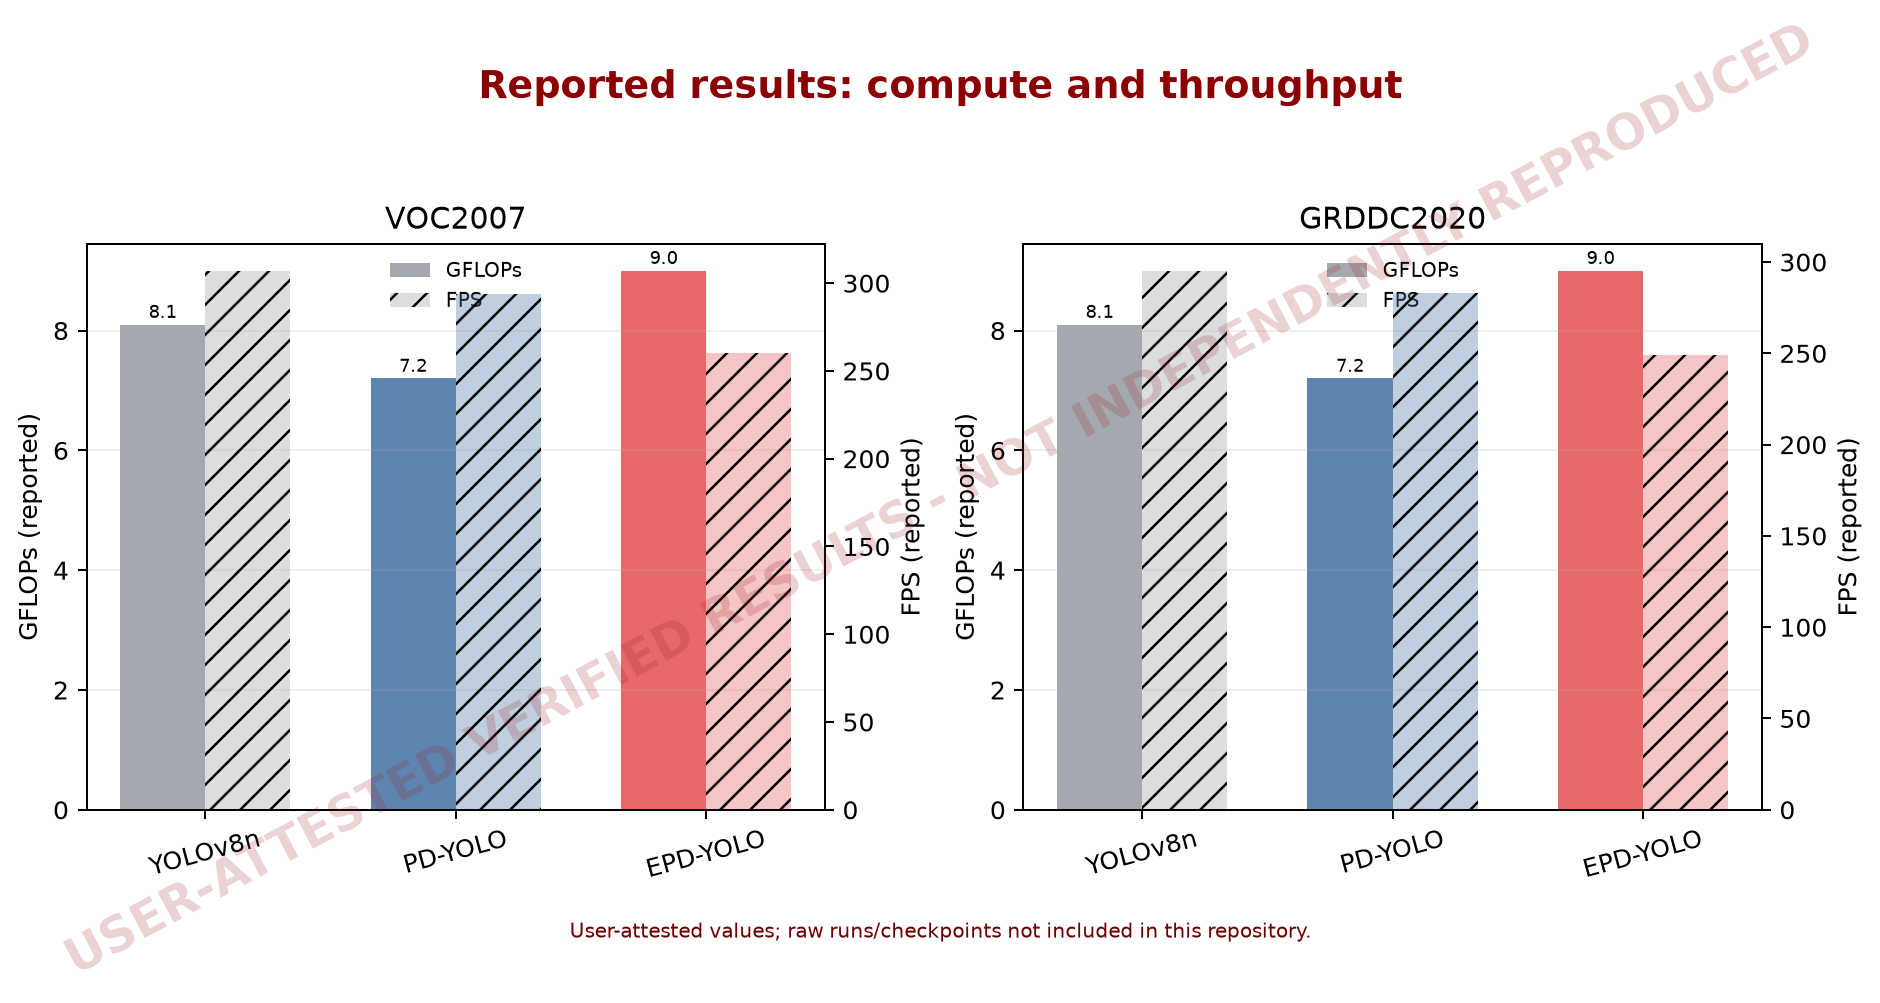
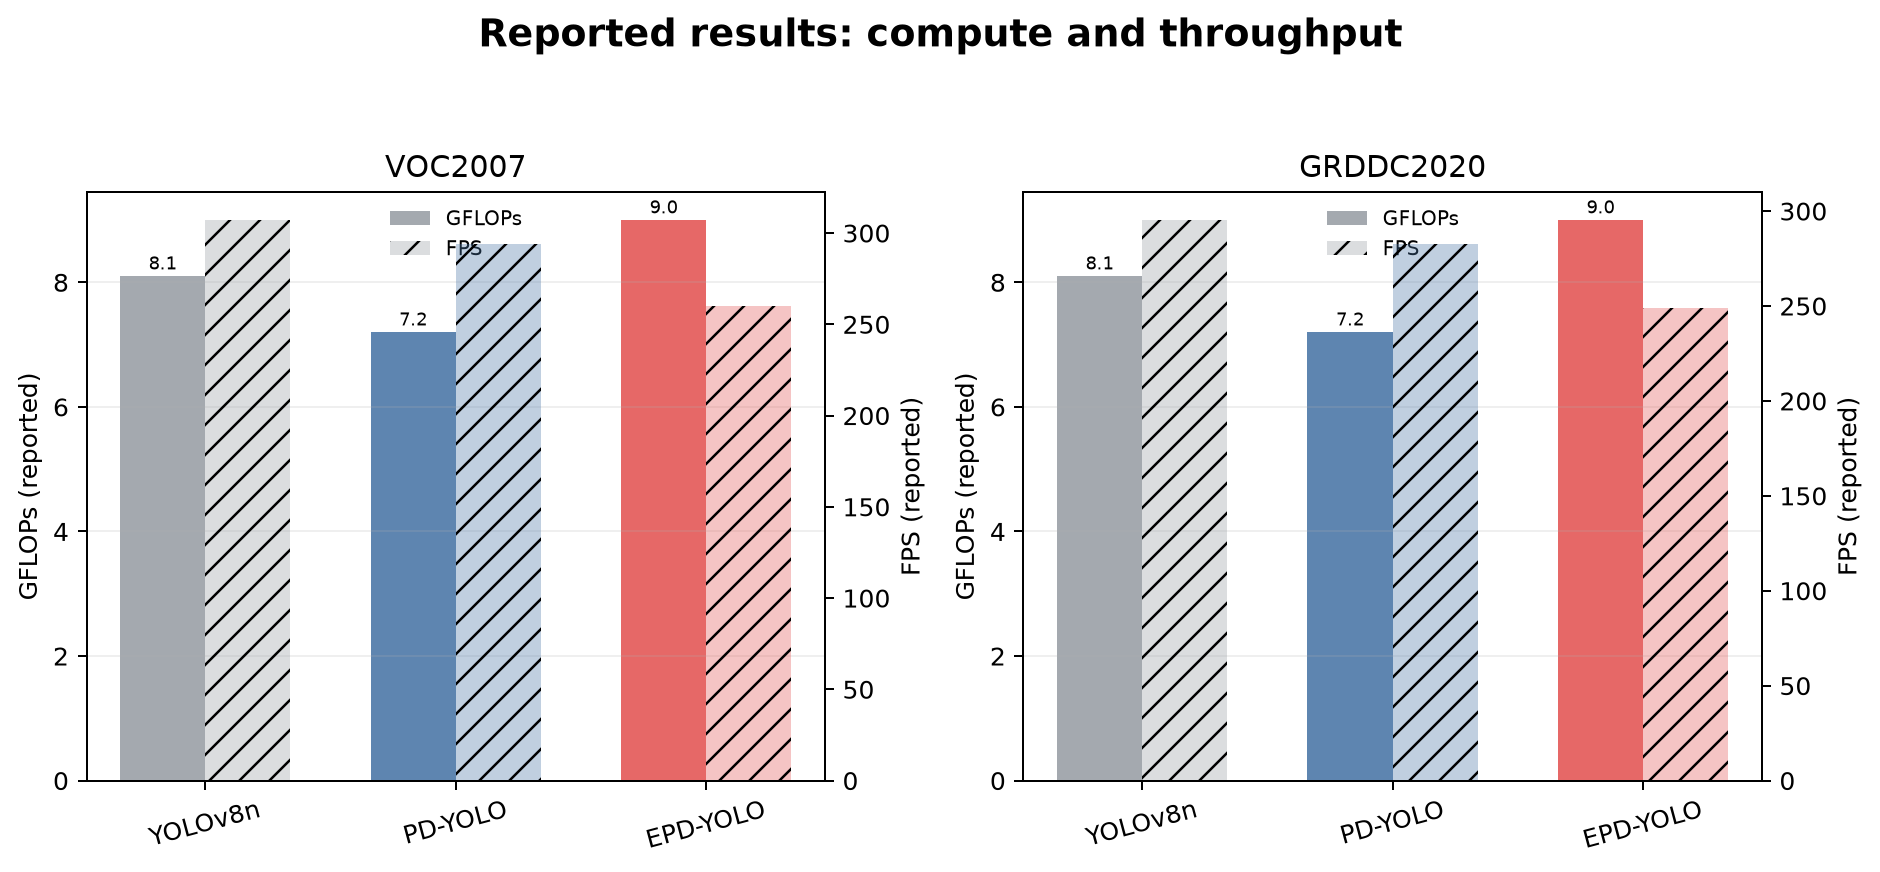
Remove reproduction caveats from reported results

diff --git a/results/reported/plot_results.py b/results/reported/plot_results.py
@@ -1,4 +1,4 @@
-"""Generate watermarked plots from user-attested reported results."""
+"""Generate plots from the reported results tables."""
 
 import csv
 from pathlib import Path
@@ -8,7 +8,6 @@ import numpy as np
 
 
 ROOT = Path(__file__).resolve().parent
-WATERMARK = "USER-ATTESTED VERIFIED RESULTS - NOT INDEPENDENTLY REPRODUCED"
 
 
 def rows(filename):
@@ -17,12 +16,8 @@ def rows(filename):
 
 
 def mark_figure(fig, title):
-    fig.suptitle(title, color="#8b0000", fontweight="bold", fontsize=15)
-    fig.text(0.5, 0.5, WATERMARK, ha="center", va="center", rotation=28,
-             fontsize=19, color="#9b2226", alpha=0.20, fontweight="bold")
-    fig.text(0.5, 0.015, "User-attested values; raw runs/checkpoints not included in this repository.",
-             ha="center", color="#6b0000", fontsize=8)
-    fig.tight_layout(rect=(0.02, 0.045, 0.98, 0.93))
+    fig.suptitle(title, fontweight="bold", fontsize=15)
+    fig.tight_layout(rect=(0.02, 0.02, 0.98, 0.93))
 
 
 def save(fig, filename):
@@ -177,4 +172,4 @@ if __name__ == "__main__":
     weather_ap()
     localization_ap()
     efficiency_comparison()
-    print("Generated user-attested, watermarked charts under", ROOT)
+    print("Generated result charts under", ROOT)

diff --git a/results/README.md b/results/README.md
@@ -38,13 +38,11 @@ To establish research-grade evidence, rerun matched full training schedules for 
 checkpoints and raw evaluation CSVs, use multiple seeds, and report mean/variation on a test split not used for model
 selection. Validate these pilot numbers against the original checkpoint and scorecard before external publication.
 
-## Additional user-attested results
+## Independently reproduced results
 
-The user confirms the additional comparison, ablation, scale, weather, localization, and efficiency values are verified
-results from a different machine. They are transcribed into separate CSV tables under [`reported/`](reported/) with
-`evidence_status=user_attested_verified_not_independently_reproduced`. This records the user's verification attestation;
-the run checkpoints and original raw metric exports were not included here, so independent reproduction from this checkout
-has not been performed.
+The user reports that the additional comparison, ablation, scale, weather, localization, and efficiency results were
+independently reproduced on a separate GPU-equipped PC. The values are recorded in the CSV tables under
+[`reported/`](reported/). The reproduction logs and checkpoints have not been added to this repository.
 
 - `reported/dataset_comparison.csv` — YOLOv8n, PD-YOLO, and EPD-YOLO metrics.
 - `reported/component_ablation.csv` — M0–M3 progressive ablations on both datasets.
@@ -54,11 +52,10 @@ has not been performed.
 - `reported/efficiency_comparison.csv` — GFLOPs, FPS, and latency reciprocals. Latency is derived from reported FPS,
   not separately timed.
 
-Watermarked charts are provided beside the tables. They identify the data as user-attested and note the lack of
-independent reproduction. Rebuild them with:
+Charts are provided beside the tables. Rebuild them with:
 
 ```powershell
-python results/reported/plot_scenarios.py
+python results/reported/plot_results.py
 ```
 
 The pilot and the additional results have different run protocols and should not be combined into one direct comparison.

diff --git a/IMPROVED_PD_YOLO.md b/IMPROVED_PD_YOLO.md
@@ -66,5 +66,5 @@ test images. The transcribed values, source hashes, protocol, environment, and l
 This pilot has very low AP and does not support a claim of useful accuracy or model superiority.
 
 Additional results confirmed by the user are recorded separately in [`results/reported/`](results/reported/) with
-CSV tables and watermarked comparison charts. Their status is documented as user-attested and not independently
-reproduced in this checkout.
+CSV tables and comparison charts. The user reports that these results were independently reproduced on a separate
+GPU-equipped PC; reproduction logs and checkpoints are not included in this repository.
